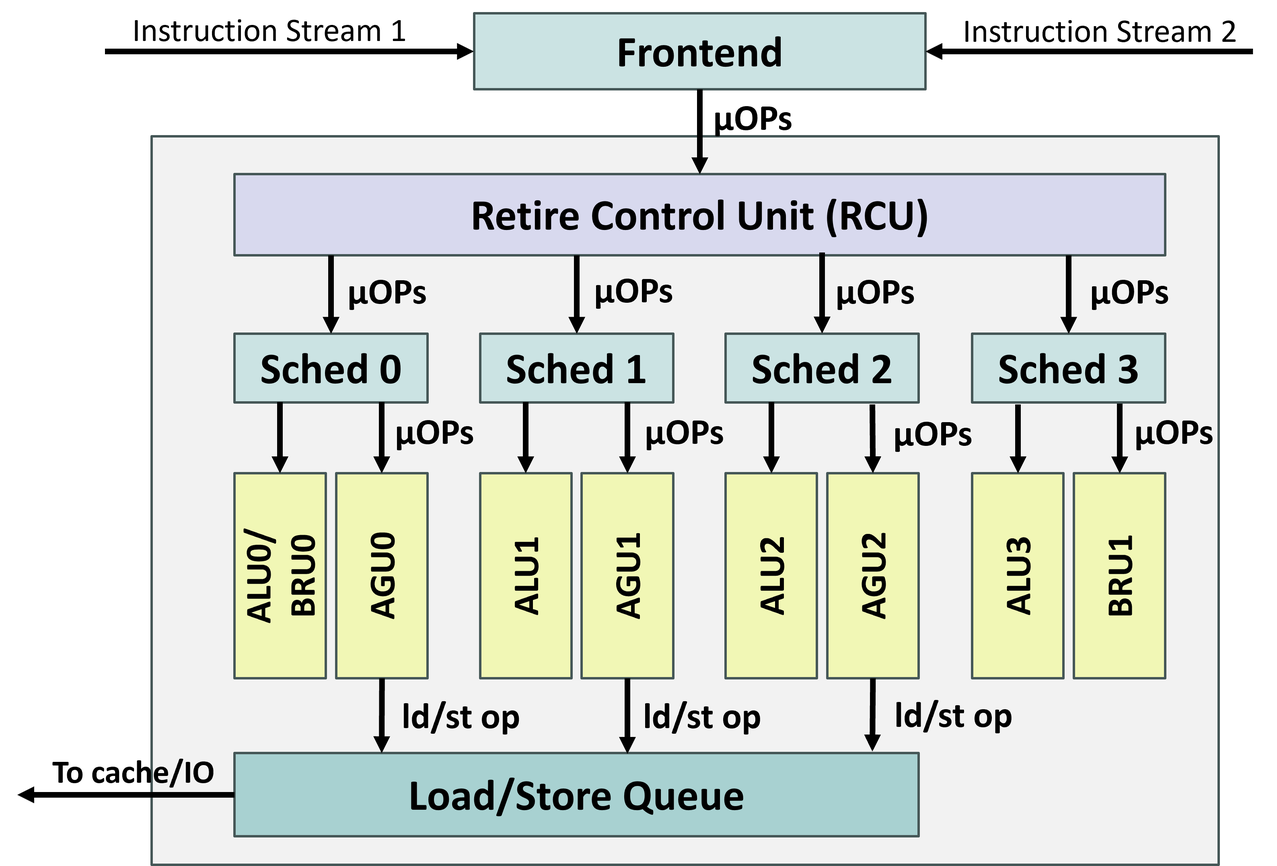
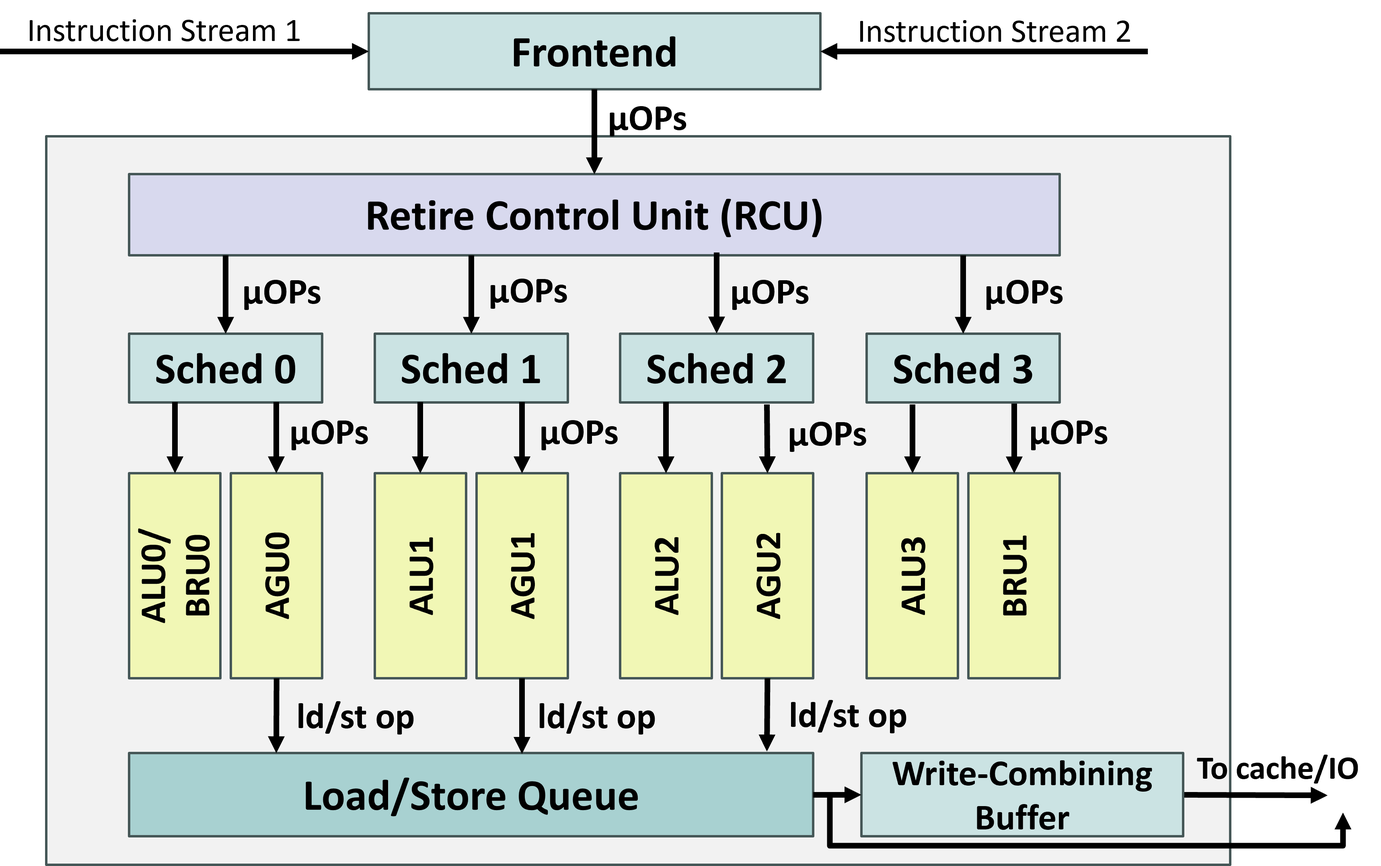
Minor structural updates to interconnect-sc

diff --git a/chapters/interconnect-sc/store-ops/challenges.tex b/chapters/interconnect-sc/store-ops/challenges.tex
@@ -20,14 +20,9 @@ Since each \textit{load} instruction must wait for the previous one to complete,
 However, a memory store (and hence a posted transaction) does not have to wait for a previous store to complete.
 As such, we determine that memory stores are the correct type of transaction for the attacker.
 
-The \textit{mfence} instruction in \Cref{lst:pcie-mem-reads-v-writes} ensures prior \textit{store} operations complete before the \textit{mfence} does.
-However, it disrupts the attacker from issuing a continuous stream of \textit{store} operations.
-Simply removing the \textit{mfence} from the code is not sufficient, as then the end \textit{timer} may execute out of order with respect to the issued \textit{store} operations, giving a false execution time.
-To fix this, the attacker needs a mechanism that can issue as many \textit{store} instructions as possible while having the ability to time the completions at the level of each instruction.
-
 \begin{figure}[!htb]
     \centering
-    \includegraphics[width=\columnwidth]{figures/interconnect-sc/store-ops/pcie_mem_reads_v_writes.png}
+    \includegraphics[width=0.8\columnwidth]{figures/interconnect-sc/store-ops/pcie_mem_reads_v_writes.png}
     \caption{Comparison: PCIe memory reads vs writes}
     \label{fig:pcie-mem-reads-v-writes}
 \end{figure}
@@ -43,11 +38,17 @@ To fix this, the attacker needs a mechanism that can issue as many \textit{store
 \subsubsection{Issuing and timing a continuous stream of \textit{store} instructions}
 \label{subsubsec:interconnect-sc-store-ops-challenges-measuring-time}
 
+The \textit{mfence} instruction in \Cref{lst:pcie-mem-reads-v-writes} ensures prior \textit{store} operations complete before the \textit{mfence} does.
+However, it disrupts the attacker from issuing a continuous stream of \textit{store} operations.
+Simply removing the \textit{mfence} from the code is not sufficient, as then the end \textit{timer} may execute out of order with respect to the issued \textit{store} operations, giving a false execution time.
+To fix this, the attacker needs a mechanism that can issue as many \textit{store} instructions as possible while having the ability to time the completions at the level of each instruction.
+
 To measure the completion time of a \textit{store} operation which is issued out-of-order, we make use of two key insights:
 
 \textit{First}, the CPU core would need to keep track of all instructions executed out-of-order so that they are retired in program order.
 Keeping this track would require a scheduler and a buffer in the hardware, which would have a limited and fixed size.
-The AMD CPU has four schedulers as described in \Cref{subsubsec:interconnect-sc-background-cpu-arch-pipelines}. Each scheduler has a fixed number of instruction slots, $size_{sched}$.
+The AMD CPU has four schedulers as described in \Cref{subsubsec:interconnect-sc-background-cpu-arch-pipelines}. Each scheduler has a fixed number of instruction slots, $size_{sched}$
+\footnote{AMD Zen 3 schedulers have $\sim$22-24 slots per scheduler \cite{gast2023squip}.}.
 In addition, for tracking \textit{load} and \textit{store} operations that are in flight, the CPU also has a load-store queue (LSQ), with a fixed number of slots for loads ($size_{ldq} = 72$) and for stores ($size_{stq} = 64$) \cite{amd_7003_software_optimization_guide}.
 Suppose the total number of pending (in flight) \textit{store} instructions is larger than the total size of the scheduler slots and the store queue. 
 In that case, the next instruction will be blocked until one (or more) of the previous instructions finishes.
@@ -56,12 +57,13 @@ In that case, the next instruction will be blocked until one (or more) of the pr
 % Any instruction that is not yet in the scheduler can not be executed out of order until it gets a slot in one of the schedulers.
 % We leverage this behaviour of the CPU to develop a mechanism that can issue multiple \textit{store} instructions while having the ability to time individual completions.
 
-We can use the first insight to queue a \textit{timer} instruction immediately after issuing $size_{sched} + size_{stq}$ stores, and that \textit{timer} will execute only after a \textit{store} instruction has been completed.
+We can use these insights to queue a \textit{timer} instruction immediately after issuing $size_{sched} + size_{stq}$ stores, and that \textit{timer} will execute only after the first \textit{store} instruction that was issued has been completed.
 To achieve this, we need to ensure that we can issue $N = 3 * size_{sched} + size_{stq}$ 
-\footnote{Only three schedulers have an address generation unit (AGU), which also triggers \textit{load/store} operations.}
+\footnote{Only three schedulers have an address generation unit (AGU) that triggers \textit{load/store} operations.}
 \textit{store} instructions in $t_{cpu} < 600~cycles$ (see \Cref{fig:pcie-mem-reads-v-writes}), to ensure that the CPU pipeline is filled before the first \textit{store} instruction retires.
-As the AMD CPU can issue 2 \textit{store} instructions per cycle \cite{amd_7003_software_optimization_guide}, $t_{cpu} = N/2$
-\footnote{AMD Zen 3 schedulers have $\sim$22-24 slots per scheduler \cite{gast2023squip}. Hence, if $size_{sched} = 24$, $N = 3 * 24 + 64 = 136$, and $t_{cpu} = N/2 = 68~cycles$.}.
+As the AMD CPU can issue 2 \textit{store} instructions per cycle \cite{amd_7003_software_optimization_guide}, $t_{cpu} = N/2$.
+For $size_{sched} = 24$ and $size_{stq} = 64$, $t_{cpu} = 68~cycles$.
+% \footnote{Hence, if $size_{sched} = 24$, $N = 3 * 24 + 64 = 136$, and $t_{cpu} = N/2 = 68~cycles$.}.
 
 Now, after the initial $N$ stores, if we issue a continuous stream of (\textit{timer}...\textit{store}) pairs, the \textit{timer} from the pair will only be executed once a previous \textit{store} retires.
 As this \textit{timer} instruction will be executed immediately (out of order with the other stores), the \textit{store} in this pair will almost immediately occupy the now available scheduler slot, blocking the next \textit{timer}.
@@ -95,17 +97,17 @@ As we can see in \Cref{fig:measuring-store-time}, the measured time difference s
 \label{subsubsec:interconnect-sc-store-ops-challenges-microcode-updates}
 However, the behaviour of the CPU observed in \Cref{fig:measuring-store-time} is dependent on the microcode the CPU is running.
 The CPU microcode can change how the CPU behaves.
-For example, the microcode may change how the schedulers schedule the instructions out of order, how the LSU tracks the stores in flight, or how the write-combining buffers combine multiple \textit{store} instructions for efficient usage of the interconnects.
+For example, the microcode can change how the schedulers schedule the instructions out of order, how the LSU tracks the stores in flight, or how the write-combining buffers combine multiple \textit{store} instructions for efficient usage of the interconnects.
 
 The results in \Cref{fig:measuring-store-time} are based on the microcode patch 0x0A0011D5 (for AMD EPYC 3rd gen 19h B1 processors) released on May 03, 2024 to address CVE-2023-31315 \cite{amd_microcode_update}.
-Prior to this update (i.e. microcode patch 0x0a0011d3
-\footnote{AMD does not offer changelogs for their microcode, and hence we are unable to confirm what CPU behaviour changed between the given versions.}
-), the results were as shown in \Cref{fig:measuring-store-time-before-microcode-update}.
+Prior to this update (i.e. microcode patch 0x0a0011d3), the results were as shown in \Cref{fig:measuring-store-time-before-microcode-update}.
 Here, $N = 120$, instead of $N = 80$. 
 In addition, after the threshold of $N$, the stores complete in groups of $8$ instead of retiring individually.
 This may be caused by unexpected behaviour of the write-combining (WC) buffers that are present after the LSU in the CPU pipeline.
 The usage of the WC buffers also explains the high variation in the execution time measured, as the WC buffer combines writes based on certain threshold differences between the target addresses \cite{amd_7003_software_optimization_guide}, which are dependent on the order in which the stores were issued.
 While we ensure that Linux marks the PCIe resource as a memory type that does not allow write-combining, the CPU may still be using these buffers unexpectedly.
+However, AMD does not offer changelogs for their microcode.
+Hence, we are unable to confirm what CPU behaviour changed between the given versions.
 
 
 \begin{figure}[!htb]

diff --git a/chapters/interconnect-sc/background/pcie.tex b/chapters/interconnect-sc/background/pcie.tex
@@ -1,20 +1,21 @@
 \subsection{PCIe}
 \label{subsec:interconnect-sc-background-pcie}
 
-Peripheral Component Interconnect Express (PCIe) is a high-speed, low-latency packet-based communication protocol used for connecting peripherals like GPUs, FPGAs, storage devices, and networking devices to the CPU. 
+Peripheral component interconnect express (PCIe) is a high-speed, low-latency packet-based communication protocol used for connecting peripherals like GPUs, FPGAs, storage devices, and networking devices to the CPU. 
 In order to support high bandwidth and low latency, PCIe supports multiple lanes, where each lane can send data in both directions.
 Most PCIe implementations support 1, 2, 4, 8, or 16 lanes, represented as PCIe x1 - x16
 \footnote{PCIe x32 exists but is rarely utilised in commercial systems.}.
 
 The PCIe standard has evolved through multiple generations, each offering increased data transfer rates and improved efficiency for applications in computing, networking, and storage.
 Each major revision of the PCIe standard doubles the bandwidth supported by PCIe.
-As such, while PCIe v3.0 x16 supports 16 Gbps, PCIe v4.0 x16 doubles it to 32 Gbps, and PCIe v5.0 doubles it further to 64 Gbps.
-While PCIe v6.0 continues this trend, it also adds a lot of newer features, such as 256B FLIT mode, which ensures that each packet is exactly 256 bytes in size, allowing for deterministic processing and Forward Error Correction (FEC).
-PCIe v6.0 also introduces data encryption for data in transit on the PCIe interconnect.
+As such, while PCIe 3.0 x16 supports 16 Gbps, PCIe 4.0 x16 doubles it to 32 Gbps, and PCIe 5.0 doubles it further to 64 Gbps.
+While PCIe 6.0 continues this trend, it also adds a lot of newer features, such as 256B FLIT mode, which ensures that each packet is exactly 256 bytes in size, allowing for deterministic processing and Forward Error Correction (FEC).
+PCIe 6.0 also introduces data encryption for data in transit on the PCIe interconnect
+\footnote{Very few PCIe 5.0 devices are currently available in the market, and PCIe 6.0 is unavailable}.
 
 As PCIe protocol enables communication between the CPU and peripherals, it requires hardware support from the CPU in the form of the CPU's PCIe root complex.
 However, as the PCIe root complex resides on the CPU die, it becomes challenging to provide an arbitrarily large number of PCIe lanes originating from the CPU to support an arbitrarily large number of peripheral devices.
-In order to alleviate this problem, PCIe utilises either a PCIe Switch or a Platform Controller Hub (PCH) to form a tree-like topology.
+In order to alleviate this problem, PCIe utilises either a PCIe Switch or a platform controller hub (PCH) to form a tree-like topology.
 A PCIe switch has one upstream port that connects to either the CPU's root complex or another PCIe switch but has multiple downstream ports, each of which can consist of more PCIe switches or endpoints to connect the peripherals.
 A PCH is usually integrated within the CPU and provides PCIe access to slower endpoints such as storage, USB ports, and slow network cards such as the one built into the motherboard.
 
@@ -26,11 +27,11 @@ A PCH is usually integrated within the CPU and provides PCIe access to slower en
 \end{figure}
 
 Similar to network protocols, PCIe utilises a layered architecture consisting of the transaction layer, data link layer, and physical layer, which are implemented in a PCIe controller (see \Cref{fig:pcie-controller}).
-PCIe provides reliable transfer semantics in the data link layer, which relies on Cyclic Redundancy Check (CRC) to detect errors and uses Acknowledgements (ACKs) or Negative Acknowledgements (NACKs) to inform the sender to re-transmit failed packets.
+PCIe provides reliable transfer semantics in the data link layer, which relies on cyclic redundancy check (CRC) to detect errors and uses acknowledgements (ACKs) or negative acknowledgements (NACKs) to inform the sender to re-transmit failed packets.
 The transaction layer of PCIe supports a fixed set of transactions (see \Cref{tab:pcie-transaction-types}), each of which is one of the following three types:
 \textbf{Posted:} Transactions where no response is issued or expected. 
 \textbf{Non-posted:} Transactions where a response is required. 
-\textbf{Completions:} The completion of a previous non-posted transaction.
+\textbf{Completions:} The response of a previous non-posted transaction.
 PCIe enforces strict ordering rules for each of these types, which we outline in \Cref{tab:pcie-transaction-ordering-rules}.
 
 \begin{table}[!htb]

diff --git a/chapters/interconnect-sc/background/side-channels-in-interconnects.tex b/chapters/interconnect-sc/background/side-channels-in-interconnects.tex
@@ -1,14 +1,16 @@
 \subsection{Side Channels in Interconnects}
 \label{subsec:interconnect-sc-background-side-channels}
 
-Conceptually, carrying out a side-channel interconnect is very similar to carrying out a buffer congestion-based attack on internet networks, like the one presented by \citet{schuster2017beautyburst}. 
-The attacker creates congestion on a buffer in the communication path between the host (CPU) and the peripheral (e.g. GPU), such as the Rx/Tx buffers in the transaction layer implementation of the PCIe controller.
-The attacker then observes the delay in transmitting their own traffic.
-This delay would be proportional to the amount of data transferred by the victim, which would help the attacker gain insight into the victim's traffic shape.
+Conceptually, a side-channel attack in interconnects is similar to a side-channel attack in internet networks. 
+The attacker creates congestion on a buffer in the communication path between the host (CPU) and the peripheral (e.g. GPU), such as the Rx/Tx buffers in the transaction layer implementation of the PCIe controller (see \Cref{fig:pcie-controller}).
+The attacker then observes the delay in transmitting their traffic.
+This delay will be proportional to the data the victim transfers, which would help the attacker gain insight into the victim's traffic shape.
 
 However, a few differences between interconnects and traditional networks make it challenging to implement such an attack. \\
 \textit{First}, The bandwidth of interconnects like PCIe is at least an order of magnitude higher than that of internet networks.
-While a typical bandwidth in an internet network may be 1-10Gbps ( = 0.125 - 1.25 GBps), PCIe 4.0 can operate at a rate of 32GBps.
+While a typical bandwidth in an internet network is between 0.125 - 1.25 GBps 
+\footnote{Internet network bandwidth is typically measured in bits per second, while for interconnects, it is measured in bytes per second. Typical internet bandwidth is 1-10 Gbits per second.},
+PCIe 4.0 can operate at a rate of 32GBps.
 The high bandwidth makes it non-trivial to saturate the PCIe link. \\
 \textit{Second}, latency in PCIe is at least three orders of magnitude smaller than that of internet networks.
 Typically, internet latency is measured in milliseconds, while PCIe latency is measured in hundreds of nanoseconds to microseconds.
@@ -20,6 +22,11 @@ The attacker can not craft their own packets and can not change how the hardware
 % Most transaction types can not generate enough traffic to even come close to saturating the bandwidth of PCIe. 
 % While saturating the bandwidth may not be necessary to create a side-channel attack, it would be useful if there is always at least one attacker packet in the buffer whenever the victim might transmit.
 % This would ensure that the attacker can observe a delay in their own packets for each packet or set of packets the victim transmits.
+
+
+Nevertheless, prior work demonstrated that an adversary can create a congestion in the PCIe links by saturating the PCIe bandwidth.
+Using this congestion, the adversary can determine which website a user is visiting \cite{tan2021invisible, side2022lockeddown}, what the user is typing in a GUI environment \cite{tan2021invisible}, what machine learning model they are training \cite{tan2021invisible}, or what resources they are using on an FPGA connected via PCIe \cite{giechaskiel2022cross}.
+Recent work has also shown that congestion in PCIe can be used as a covert channel to exfiltrate data from a secure environment to a collaborator outside the environment \cite{giechaskiel2022cross, khaliq2021timing}.
 
 \begin{comment}
 https://www.linkedin.com/pulse/pci-express-primer-3-transaction-layer-simon-southwell/

diff --git a/chapters/interconnect-sc/introduction.tex b/chapters/interconnect-sc/introduction.tex
@@ -5,22 +5,21 @@ Interconnects facilitate high-speed and low-latency communication within and bet
 While the evolution of interconnects has prioritised speed and latency, security has received less attention.
 On-chip interconnects do not have any encryption even today, while off-chip interconnects have only recently started focusing on encrypting the data in transit.
 For example, data transmitted off-chip to memory or another NUMA node is now encrypted when the user is using Intel's SGX/TDX or has AMD's SME or SEV enabled \cite{intel_upi_encryption, amd_gen_5_arch}.
-PCIe, which is used to communicate with peripheral devices, only introduced encryption with the PCIe v6.0 specifications 
-\footnote{PCIe 5.0 devices are only recently coming to market, and PCI-SIG has released an Engineering Change Notification (ECN) to optionally enable integrity and data encryption (IDE) for PCIe 5.0 \cite{pcie_ide_v5_ecn}}
+PCIe, which is used to communicate with peripheral devices, only introduced encryption with the PCIe 6.0 specifications 
+\footnote{PCI-SIG has released an Engineering Change Notification (ECN) to optionally enable integrity and data encryption (IDE) for PCIe 5.0 \cite{pcie_ide_v5_ecn}}
 \cite{pcie_ide_v6}.
 While the recent focus on interconnect security is on encryption, little focus has been given to network-side channel attacks on interconnects.
 
-Recent research has demonstrated that creating congestion in PCIe can help an adversary determine which website a user is visiting \cite{tan2021invisible, side2022lockeddown}, what the user is typing in a GUI environment \cite{tan2021invisible}, what machine learning model they are training \cite{tan2021invisible}, or what resources they are using on an FPGA connected via PCIe \cite{giechaskiel2022cross}.
-Recent work has also shown that congestion in PCIe can be used as a covert channel to exfiltrate data from a secure environment to a collaborator outside the environment \cite{giechaskiel2022cross, khaliq2021timing}.
+Recent research has demonstrated that creating congestion by saturating the PCIe bandwidth can help an adversary determine the user's activity.
 However, prior work relies on PCIe 3.0 and often has a hierarchical topology where there is a shared PCIe switch or PCH.
 In addition, they rely on the adversary's ability to saturate the PCIe bandwidth, hence creating congestion.
 
 This chapter answers two important research questions:
 \textbf{RQ1:} Is it possible to create contention in PCIe links without the adversary saturating the PCIe bandwidth?
-\textbf{RQ2:} Is it possible to create congestion on a non-hierarchical PCIe link in faster PCIe v4.0?
+\textbf{RQ2:} Is it possible to create congestion on a non-hierarchical PCIe link in faster PCIe 4.0?
 
 The rest of the chapter is organised as follows.
-We begin by providing some relevant background on PCIe, the CPU architecture we work with, and interconnect side-channels in general in \Cref{sec:interconnect-sc-background}. 
+We begin by providing relevant background on PCIe, the CPU architecture we work with, and interconnect side-channels in general in \Cref{sec:interconnect-sc-background}. 
 Then, we outline our threat model and our setup in \Cref{sec:interconnect-sc-threat-model} and \Cref{sec:interconnect-sc-setup}, respectively.
 We answer the research questions outlined above in \Cref{sec:interconnect-sc-store-ops} and \Cref{sec:interconnect-sc-dma}.
 Finally, we discuss the limitations of our approach in \Cref{sec:interconnect-sc-limitations} and how our approach compares to related work in \Cref{sec:interconnect-sc-related-work}.

diff --git a/chapters/interconnect-sc/background/cpu-arch.tex b/chapters/interconnect-sc/background/cpu-arch.tex
@@ -25,7 +25,7 @@ The figure shows the following components:
 \label{subsubsec:interconnect-sc-background-cpu-arch-pipelines}
 
 Modern CPUs rely on executing multiple instructions simultaneously to maximise performance.
-To achieve this, the CPUs have a multi-stage pipeline with the following stages: 1) Fetch, 2) Decode, 3) Schedule and Execute and 4) Retire.
+To achieve this, the CPUs have a multi-stage pipeline with the following stages: 1) Fetch, 2) Decode, 3) Schedule and Execute, and 4) Retire.
 We provide a simplified view of the pipeline in the CPU cores of the AMD EPYC Zen 3 processors in \Cref{fig:amd-core} and a brief description of each of the stages below:\\
 \textbf{Fetch: } This stage fetches the next macro-op from the cache or the memory. 
 However, the next macro-op to be fetched may not be deterministic, given the program may contain branches. 
@@ -54,9 +54,10 @@ MMIO enables the CPU to map some memory region of the PCIe endpoint in the CPU's
 Any process with the proper permissions can then map this memory within the process and perform normal \textit{load} or \textit{store} operations on this memory.
 However, this approach requires the execution units of the CPU to issue repeated \textit{load/store} instructions to copy data to the PCIe endpoint.
 While this method is useful for reading or writing limited content, such as small configuration parameters, to the PCIe endpoints, it is inefficient for transferring a large amount of data.
-To alleviate this, a lot of PCIe endpoints consist of a special hardware component called a DMA engine.
-The DMA engine can copy large chunks of contiguous data without involving the execution units of the CPU.
+To alleviate this, many PCIe endpoints consist of a special hardware component called a direct memory access (DMA) engine.
+The DMA engine is purpose-built to copy large chunks of contiguous data without involving the execution units of the CPU.
 
 For MMIO-based transactions, the load or store instructions go through the same instruction pipeline outlined in \Cref{fig:amd-core}. 
-From the Load Store Queue, they end up in the I/O die outlined in \Cref{fig:amd-cpu} and go out the I/O block to the connected PCIe endpoint.
-For DMA transactions (usually initiated by the PCIe endpoint), the transaction comes into the I/O block and, after some address and protocol translations, is sent out to the DRAM via the UMC.
+From the Load Store Queue, they enter the I/O die shown in \Cref{fig:amd-cpu} and exit through the I/O block to the connected PCIe endpoint.
+For DMA transactions, which are typically initiated by the PCIe endpoint, the transaction enters the I/O block. 
+After address and protocol translations, they are transmitted to the DRAM through the UMC.

diff --git a/chapters/interconnect-sc/threat-model.tex b/chapters/interconnect-sc/threat-model.tex
@@ -1,13 +1,13 @@
 \section{Threat Model}
 \label{sec:interconnect-sc-threat-model}
 
-We assume that a victim is transmitting some data over PCIe to a PCIe endpoint device, such as a GPU.
-The attacker aims to disclose some information regarding the data being transferred over this PCIe link.
+We assume that a victim is transmitting data over PCIe to a PCIe endpoint device, such as a GPU.
+The attacker aims to disclose information regarding the data being transferred over this PCIe link.
 We assume that the attacker and the victim are co-located on the same physical server, as two processes or two VMs, and have access to the same PCIe endpoint device.
-However, on the CPU side, the attacker is isolated from the victim, such that the attacker and the victim do not share cores, caches, memory controllers or DRAM.
+However, on the CPU side, the attacker is isolated from the victim, such that the attacker and the victim do not share cores, memory controllers or DRAM.
 On the PCIe endpoint device side, the attacker is also isolated from the victim by means of static partitioning such as the one offered by Nvidia's Multi-Instance GPU (MIG) functionality \cite{nvidia_mig_guide}.
-As such, the only shared component between the attacker and the victim is the communication pathway from the cores to the PCIe endpoint device, which consists of the PCIe root complex on the CPU and the endpoint device, and the PCIe link itself.
+As such, the only shared component between the attacker and the victim is the communication pathway from the cores to the PCIe endpoint device, which consists of the PCIe root complex on the CPU, the PCIe controller on the endpoint device, and the PCIe link connecting the two.
 
 We assume that the attacker is a regular tenant application on the shared physical server and does not possess the ability to modify or compromise the underlying isolation mechanism (such as the hypervisor).
 As such, the attacker does not have the ability to infiltrate or affect the victim's program and its execution.
-In addition, the attacker does not have the capability to modify the behaviour of the underlying hardware or directly monitor any components of the underlying hardware.
+In addition, the attacker does not have the capability to modify the behaviour of the underlying hardware or directly monitor any components of the hardware.

diff --git a/chapters/interconnect-sc/dma/challenges.tex b/chapters/interconnect-sc/dma/challenges.tex
@@ -10,7 +10,7 @@ In contrast, large transfers provide coarse-grained measurements but may be able
 To determine the appropriate transfer size, we profile the execution time and bandwidth utilisation of PCIe across different DMA transfer sizes.
 
 To perform the DMA transfers, we rely on the \textit{cudaMemcpy} function provided by Nvidia CUDA.
-We ensure that the memory on the CPU is pinned to the DRAM, and can not be swapper, as this is required by DMA.
+We ensure that the memory on the CPU is pinned to the DRAM, and can not be swapped, as this is required by the DMA engine.
 We measure the DMA transfer time using \textit{cudaEventRecord}, which uses a timer from the GPU to measure the time taken by GPU operations such as \textit{cudaMemcpy}.
 
 % To perform the DMA transfers, we rely on the \textit{cudaMemcpy} function provided by Nvidia CUDA.
